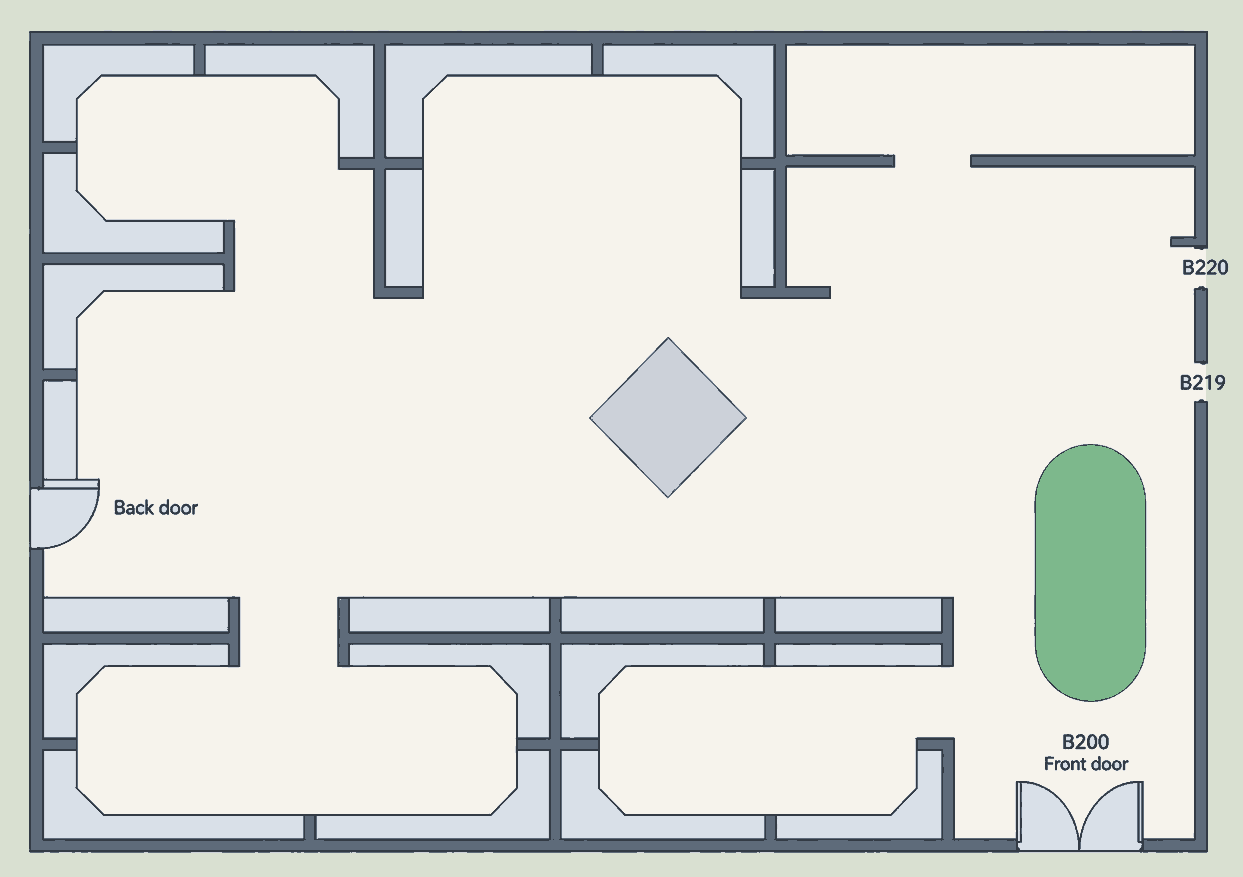
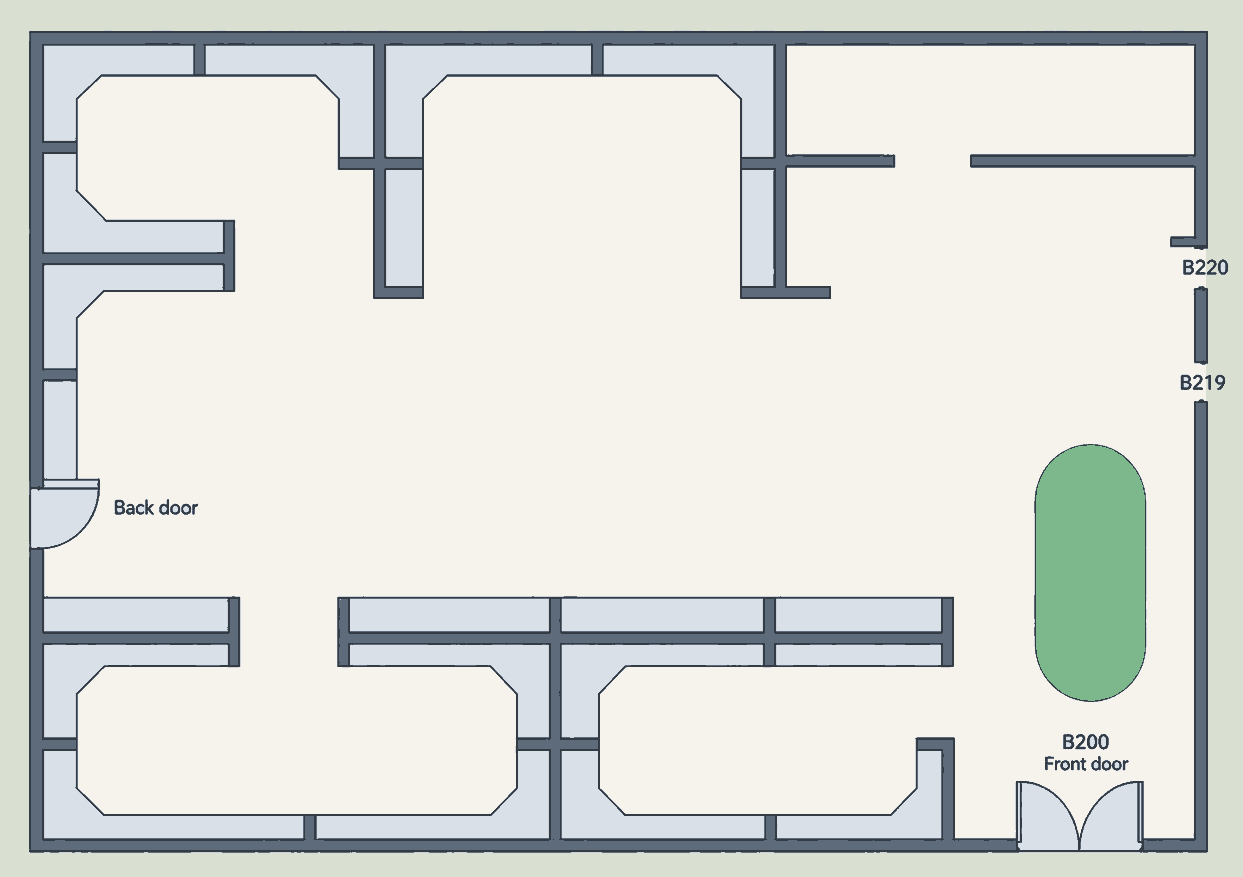
Lab floor: walls traced from the plan; drop the diamond block
- makeScenarioLayouts traces the edge of the lab's open floor in LabLayout.png
  (benches, room walls, door leaves) into 89 wall segments, so the reference
  scenario's routes stay on the open floor.
- The diamond-shaped block in the middle is removed from the map and the walls;
  the middle wall now runs to x = 60 and meets the vertical wall.
- MainUI: on a monitor with no room beside or below the main window, the J(t)
  window goes to the bottom right corner instead of off screen.
- README and paper-script comments give the new wall count. The reference
  scenario's results change (routes are longer).

Changed region(s): [[0.4586, 0.3694, 0.6114, 0.5849]]

diff --git a/Configurations/makeScenarioLayouts.m b/Configurations/makeScenarioLayouts.m
@@ -4,8 +4,8 @@ function makeScenarioLayouts()
 % whose walls come from the same geometry as the picture, so they line up exactly. Run it again
 % after editing a scenario:
 %   matlab -batch "addpath(genpath(pwd)); makeScenarioLayouts"
-% Also restyles the lab floor plan (LabLayout.png -> backgrounds/LabFloor.png) and records it as
-% the background of ReportLayout.mat.
+% Also restyles the lab floor plan (LabLayout.png -> backgrounds/LabFloor.png), records it as the
+% background of ReportLayout.mat, and gives ReportLayout the walls traced from the plan.
 here = fileparts(mfilename('fullpath'));
 bgDir = fullfile(here, 'backgrounds');
 if ~isfolder(bgDir), mkdir(bgDir); end
@@ -18,38 +18,73 @@ for k = 1:numel(makers)
     fprintf('%s: %d targets, %d edges, %d walls, %d agents\n', name, size(s.targets, 1), ...
         size(s.edges, 1), size(s.walls, 1), numel(s.agentStarts));
 end
-restyleLabFloor(fullfile(fileparts(here), 'LabLayout.png'), fullfile(bgDir, 'LabFloor.png'));
+lab = labPixels(fullfile(fileparts(here), 'LabLayout.png'));
+restyleLabFloor(lab, fullfile(bgDir, 'LabFloor.png'));
 tmp = load(fullfile(here, 'ReportLayout.mat'), 's');
 s = tmp.s;
 s.background = "LabFloor.png";
+paperWalls = [20 65 20 75; 20 50 60 50; 60 40 60 60];   % the reference scenario's three walls
+s.walls = [paperWalls; traceLabWalls(lab)];
 save(fullfile(here, 'ReportLayout.mat'), 's');
+fprintf('ReportLayout: %d walls (%d traced from the floor plan)\n', size(s.walls, 1), size(s.walls, 1) - 3);
 end
 
-function restyleLabFloor(src, dst)
-% The Stevens lab floor plan (LabLayout.png) recolored in the palette of the other maps, with
-% its geometry and labels unchanged: a warm floor, light slate benches and door leaves, slate
-% walls, and a green exterior around the building
+function lab = labPixels(src)
+% Pixel classes of the Stevens lab floor plan (LabLayout.png): open floor (one region, which
+% also reaches outside through the doors), other floor (benches, door leaves), the green area,
+% dark outlines and text, walls, the building's extent, and the diamond-shaped block in the
+% middle of the floor (dropped from the map: the reference scenario has walls there instead)
 I = im2double(imread(src)); I = I(:, :, 1:3);
 g = mean(I, 3); sat = max(I, [], 3) - min(I, [], 3);
-green = I(:, :, 2) - I(:, :, 1) > 0.12;
-floorM = g >= 0.90 & ~green;
-dark = g < 0.42 & ~green;                                  % outlines and text
-wallM = ~floorM & ~dark & ~green & sat < 0.10 & g < 0.75;
-light = ~floorM & ~dark & ~green & ~wallM;
+lab.I = I;
+lab.green = I(:, :, 2) - I(:, :, 1) > 0.12;
+lab.floor = g >= 0.90 & ~lab.green;
+lab.dark = g < 0.42 & ~lab.green;
+lab.wall = ~lab.floor & ~lab.dark & ~lab.green & sat < 0.10 & g < 0.75;
+lab.light = ~lab.floor & ~lab.dark & ~lab.green & ~lab.wall;
+L = bwlabel(lab.floor, 4);
+[~, k] = max(accumarray(L(L > 0), 1));
+lab.open = L == k;
+rows = find(sum(lab.wall, 2) > 50); cols = find(sum(lab.wall, 1) > 50);   % long wall runs
+lab.inside = false(size(g));
+lab.inside(rows(1):rows(end), cols(1):cols(end)) = true;
+F = (lab.open | lab.green) & lab.inside;
+H = bwlabel(imfill(F, 'holes') & ~F, 8);                  % holes in the floor: text, the block
+[~, k] = max(accumarray(H(H > 0), 1));
+lab.block = imdilate(H == k, strel('disk', 2));
+end
+
+function restyleLabFloor(lab, dst)
+% The lab floor plan recolored in the palette of the other maps, with its geometry and labels
+% unchanged: a warm floor, light slate benches and door leaves, slate walls, and a green
+% exterior around the building
 setc = @(O, M, c) O .* ~M + reshape(c, 1, 1, 3) .* M;
-L = bwlabel(floorM, 4);
-area = accumarray(L(L > 0), 1);
-[~, open] = max(area);                                     % the open lab floor (and outside)
-rows = find(sum(wallM, 2) > 50); cols = find(sum(wallM, 1) > 50);   % the building's extent
-inside = false(size(g)); inside(rows(1):rows(end), cols(1):cols(end)) = true;
-out = setc(zeros(size(I)), floorM, [0.85 0.88 0.91]);     % enclosed floor: benches, door leaves
-out = setc(out, L == open & inside, [0.965 0.953 0.925]);
-out = setc(out, L == open & ~inside, [0.85 0.88 0.82]);
-out = setc(out, wallM, [0.37 0.42 0.48]);
-out = setc(out, light, [0.80 0.82 0.85]);
-out = setc(out, green, [0.49 0.72 0.55]);
-out = setc(out, dark, [0.20 0.23 0.27]);
+out = setc(zeros(size(lab.I)), lab.floor, [0.85 0.88 0.91]);
+out = setc(out, lab.open & lab.inside, [0.965 0.953 0.925]);
+out = setc(out, lab.open & ~lab.inside, [0.85 0.88 0.82]);
+out = setc(out, lab.wall, [0.37 0.42 0.48]);
+out = setc(out, lab.light, [0.80 0.82 0.85]);
+out = setc(out, lab.green, [0.49 0.72 0.55]);
+out = setc(out, lab.dark, [0.20 0.23 0.27]);
+out = setc(out, lab.block, [0.965 0.953 0.925]);
 imwrite(out, dst);
+end
+
+function walls = traceLabWalls(lab)
+% Walls along the edge of the lab's open floor (benches, room walls, door leaves; the green area,
+% text labels and the dropped block count as open floor), as segments on the [0, 100]^2 canvas
+% the image is stretched to
+[H, W] = size(lab.open);
+F = imfill((lab.open | lab.green) & lab.inside, 'holes');
+F = bwareaopen(F, 1000, 4);
+walls = zeros(0, 4);
+for B = bwboundaries(F, 4)'
+    P = reducepoly(B{1}, 0.003);                           % [row col], within about 4 px
+    x = (P(:, 2) - 1) / (W - 1) * 100;
+    y = (H - P(:, 1)) / (H - 1) * 100;
+    walls = [walls; x(1:end-1), y(1:end-1), x(2:end), y(2:end)]; %#ok<AGROW>
+end
+walls = round(walls, 2);
 end
 
 %% ---------------------------------------------------------------------------------------------

diff --git a/MainUI.m b/MainUI.m
@@ -120,7 +120,8 @@ classdef MainUI < handle
     methods (Static, Access = private)
         function [mainPos, objPos] = windowPositions(monitor)
             % Default spots on the primary monitor, or fitted onto the given monitor: main window
-            % at its top left, objective window to the right or, if there is no room, below
+            % at its top left, objective window to the right or below; if neither fits, at the
+            % monitor's bottom right corner, over the main window
             mainPos = [100 100 1200 780];
             objPos = [1350 200 700 450];
             if isempty(monitor), return; end
@@ -132,10 +133,13 @@ classdef MainUI < handle
             h = min(780, m(4) - 120);
             mainPos = [m(1) + gap, top - h, w, h];
             ow = min(700, m(3) - 2*gap);
+            below = mainPos(2) - gap - 30 - 450;          % 30: title bar
             if mainPos(1) + w + gap + ow <= m(1) + m(3) - gap
                 objPos = [mainPos(1) + w + gap, top - 450, ow, 450];
+            elseif below >= m(2) + gap
+                objPos = [m(1) + gap, below, ow, 450];
             else
-                objPos = [m(1) + gap, mainPos(2) - gap - 30 - 450, ow, 450];   % 30: title bar
+                objPos = [m(1) + m(3) - gap - ow, m(2) + gap, ow, 450];
             end
         end
     end

diff --git a/Experiments/paper/paperDefaults.m b/Experiments/paper/paperDefaults.m
@@ -1,8 +1,8 @@
 function p = paperDefaults()
 % runTrial parameters of the simulator paper's reference scenario (Sec. IV): ReportLayout.mat
-% (Stevens Smart Lab, 11 targets, 10 edges, 3 walls) with 5 agents on its stored start targets,
-% constant growth A = 1 on every target, decay B = 10 per agent, R(0) = 0, max speed 15,
-% T = 500 s, dt = 0.05 s. Each experiment overrides Policy, Planner and AgentType.
+% (Stevens Smart Lab, 11 targets, 10 edges, 3 walls plus 89 traced from the floor plan) with
+% 5 agents on its stored start targets, constant growth A = 1 on every target, decay B = 10 per
+% agent, R(0) = 0, max speed 15, T = 500 s, dt = 0.05 s. Each experiment overrides Policy, Planner and AgentType.
 p = trialDefaults();
 p.Layout = "ReportLayout.mat";
 p.AgentStarts = "layout";

diff --git a/Experiments/paper/paperResultsSource.m b/Experiments/paper/paperResultsSource.m
@@ -43,8 +43,8 @@ parameters = paperTables("parameters", base, seeds)
 
 %% Figs. 9 and 2: the reference scenario in the GUI
 % |Configurations/ReportLayout.mat| over the Stevens Smart Lab map: 11 targets, 10 edges,
-% 3 walls, and 5 agents on targets 1, 6, 2, 3, and 5. Fig. 9 shows it at t = 0 and Fig. 2
-% after a short run with the Battery Efficient policy.
+% 3 walls plus 89 traced from the floor plan, and 5 agents on targets 1, 6, 2, 3, and 5.
+% Fig. 9 shows it at t = 0 and Fig. 2 after a short run with the Battery Efficient policy.
 showImages([paperGuiFigures("setup", figDir); paperGuiFigures("overview", figDir)]);
 
 %% Table II and Figs. 10-11: movement policies

diff --git a/README.md b/README.md
@@ -93,7 +93,7 @@ The experiment harness (`Experiments/runTrial`, `Experiments/trialDefaults.m`) s
 
 Only `targets` and `edges` are required, so files saved by older versions still load: missing fields keep the defaults above (agents take the GUI's Agent Accel and Speed Profile) and no agents are placed. Loaded agents use the Agent Type selected in the dropdown. `runTrial` ignores stored agents and places its own from the `AgentStarts` parameter.
 
-`Configurations/ReportLayout.mat` is the reference scenario of the simulator paper (Stevens Smart Lab, background `LabFloor.png`, a recolored `LabLayout.png`): 11 targets, 10 edges, 3 walls, and 5 agents at speed 15 starting on targets **1, 6, 2, 3, 5** (agent 1 on target 1, agent 2 on target 6, and so on), in `Static Uniform` mode with `A = 1`, `B = 10`, `R(0) = 0`.
+`Configurations/ReportLayout.mat` is the reference scenario of the simulator paper (Stevens Smart Lab, background `LabFloor.png`: `LabLayout.png` recolored, without the diamond-shaped block in the middle): 11 targets, 10 edges, 92 walls (3 placed by hand plus 89 traced from the floor plan by `makeScenarioLayouts`, so routes stay on the open floor), and 5 agents at speed 15 starting on targets **1, 6, 2, 3, 5** (agent 1 on target 1, agent 2 on target 6, and so on), in `Static Uniform` mode with `A = 1`, `B = 10`, `R(0) = 0`.
 
 ## Smoke test
 
